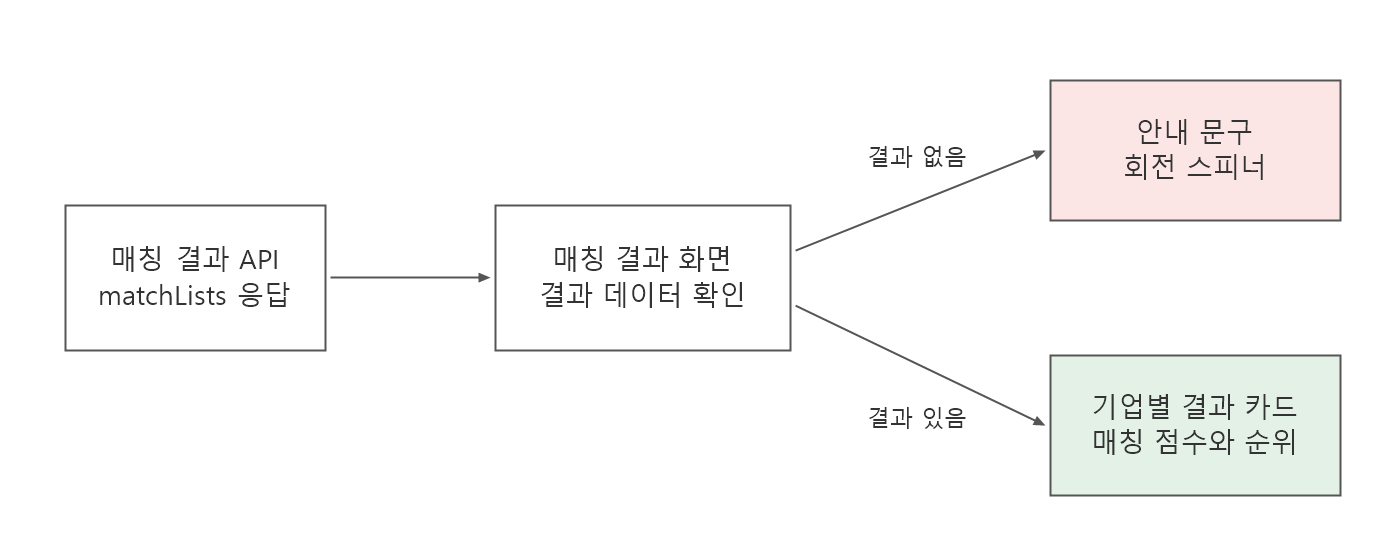
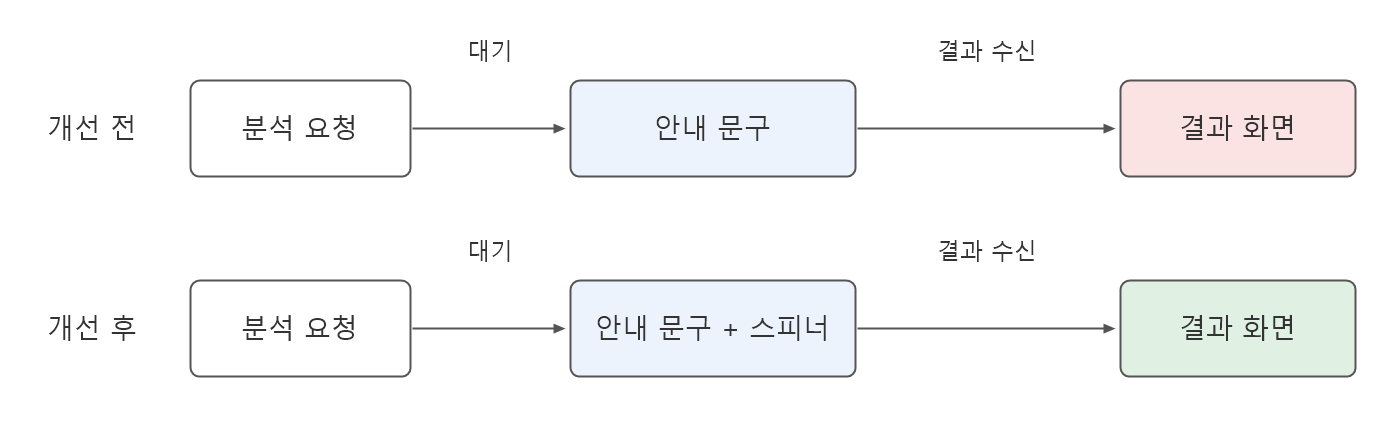
docs: 다잡아 구조도를 간결한 개선 전후 이미지로 교체

diff --git a/README.md b/README.md
@@ -156,7 +156,7 @@
 
 #### 전체적인 아키텍처
 
-[![페이지와 직군을 선택하면 서버에서 해당 페이지의 공고를 조회하는 구조](assets/dajoba/01-pagination.png)](assets/dajoba/01-pagination.png)
+[![전체 공고 요청에서 페이지당 20건 요청으로 변경한 전후 비교](assets/dajoba/01-pagination.png)](assets/dajoba/01-pagination.png)
 
 #### 개선 배경
 
@@ -184,7 +184,7 @@
 
 #### 전체적인 아키텍처
 
-[![매칭 결과 데이터 유무에 따라 안내 문구와 스피너 또는 결과 카드를 표시하는 구조](assets/dajoba/02-loading.png)](assets/dajoba/02-loading.png)
+[![대기 안내 문구에 회전 스피너를 추가한 전후 비교](assets/dajoba/02-loading.png)](assets/dajoba/02-loading.png)
 
 #### 개선 배경
 
@@ -209,7 +209,7 @@
 
 #### 전체적인 아키텍처
 
-[![작성 내용을 사용자별 로컬 저장소에 보관하고 선택적으로 복원하며 서버 저장 성공 후 초안을 삭제하는 구조](assets/dajoba/03-draft.png)](assets/dajoba/03-draft.png)
+[![화면 이탈 시 입력 유실에서 자동 저장과 초안 복원으로 개선한 전후 비교](assets/dajoba/03-draft.png)](assets/dajoba/03-draft.png)
 
 #### 개선 배경
 
